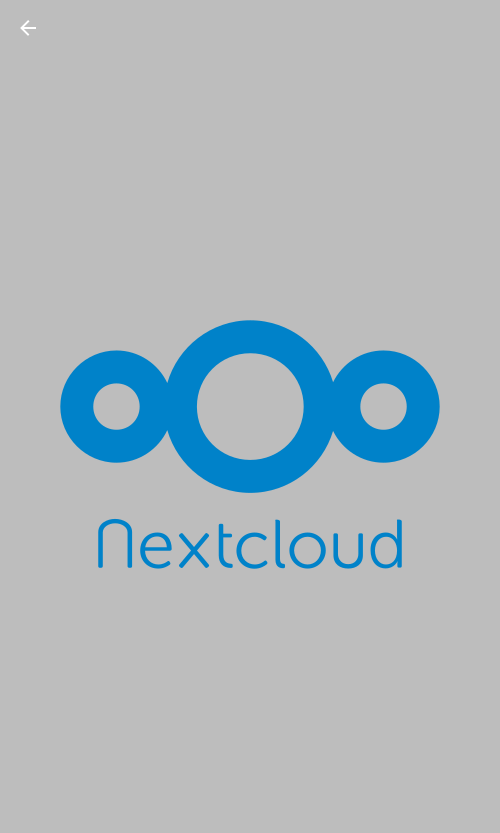
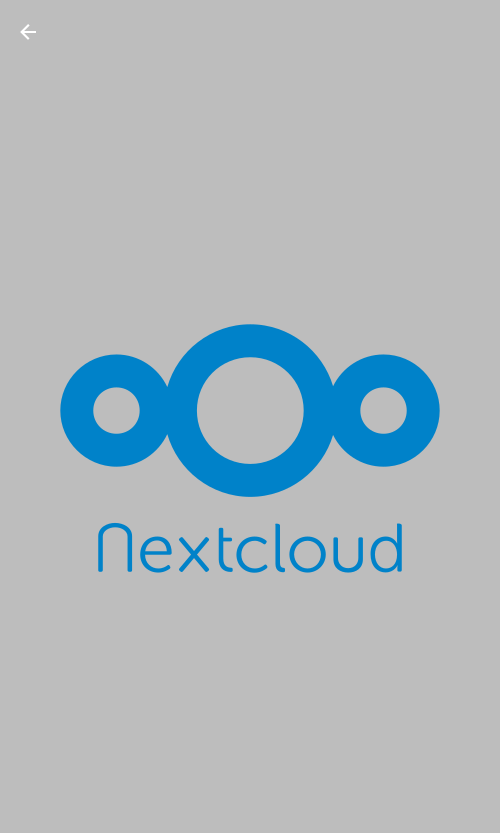
Update screenshots for m3: PreviewBitmapActivity

diff --git a/app/src/main/java/com/owncloud/android/ui/preview/PreviewBitmapActivity.kt b/app/src/main/java/com/owncloud/android/ui/preview/PreviewBitmapActivity.kt
@@ -24,16 +24,22 @@ package com.owncloud.android.ui.preview
 import android.graphics.BitmapFactory
 import android.os.Bundle
 import androidx.appcompat.app.AppCompatActivity
+import com.nextcloud.client.di.Injectable
 import com.owncloud.android.databinding.ActivityPreviewBitmapBinding
+import com.owncloud.android.utils.theme.ViewThemeUtils
+import javax.inject.Inject
 
 /**
  * Zoomable preview of a single bitmap
  */
-class PreviewBitmapActivity : AppCompatActivity() {
+class PreviewBitmapActivity : AppCompatActivity(), Injectable {
 
     companion object {
         const val EXTRA_BITMAP_PATH = "EXTRA_BITMAP_PATH"
     }
+
+    @Inject
+    lateinit var viewThemeUtils: ViewThemeUtils
 
     private lateinit var binding: ActivityPreviewBitmapBinding
 
@@ -47,6 +53,7 @@ class PreviewBitmapActivity : AppCompatActivity() {
         supportActionBar?.let {
             it.setDisplayHomeAsUpEnabled(true)
             it.setDisplayShowHomeEnabled(true)
+            viewThemeUtils.files.setWhiteBackButton(this, it)
         }
     }
 

diff --git a/app/src/main/java/com/nextcloud/client/di/ComponentsModule.java b/app/src/main/java/com/nextcloud/client/di/ComponentsModule.java
@@ -115,6 +115,7 @@ import com.owncloud.android.ui.fragment.UnifiedSearchFragment;
 import com.owncloud.android.ui.fragment.contactsbackup.BackupFragment;
 import com.owncloud.android.ui.fragment.contactsbackup.BackupListFragment;
 import com.owncloud.android.ui.preview.FileDownloadFragment;
+import com.owncloud.android.ui.preview.PreviewBitmapActivity;
 import com.owncloud.android.ui.preview.PreviewImageActivity;
 import com.owncloud.android.ui.preview.PreviewImageFragment;
 import com.owncloud.android.ui.preview.PreviewMediaFragment;
@@ -450,4 +451,7 @@ abstract class ComponentsModule {
 
     @ContributesAndroidInjector
     abstract GalleryFragmentBottomSheetDialog galleryFragmentBottomSheetDialog();
+
+    @ContributesAndroidInjector
+    abstract PreviewBitmapActivity previewBitmapActivity();
 }
